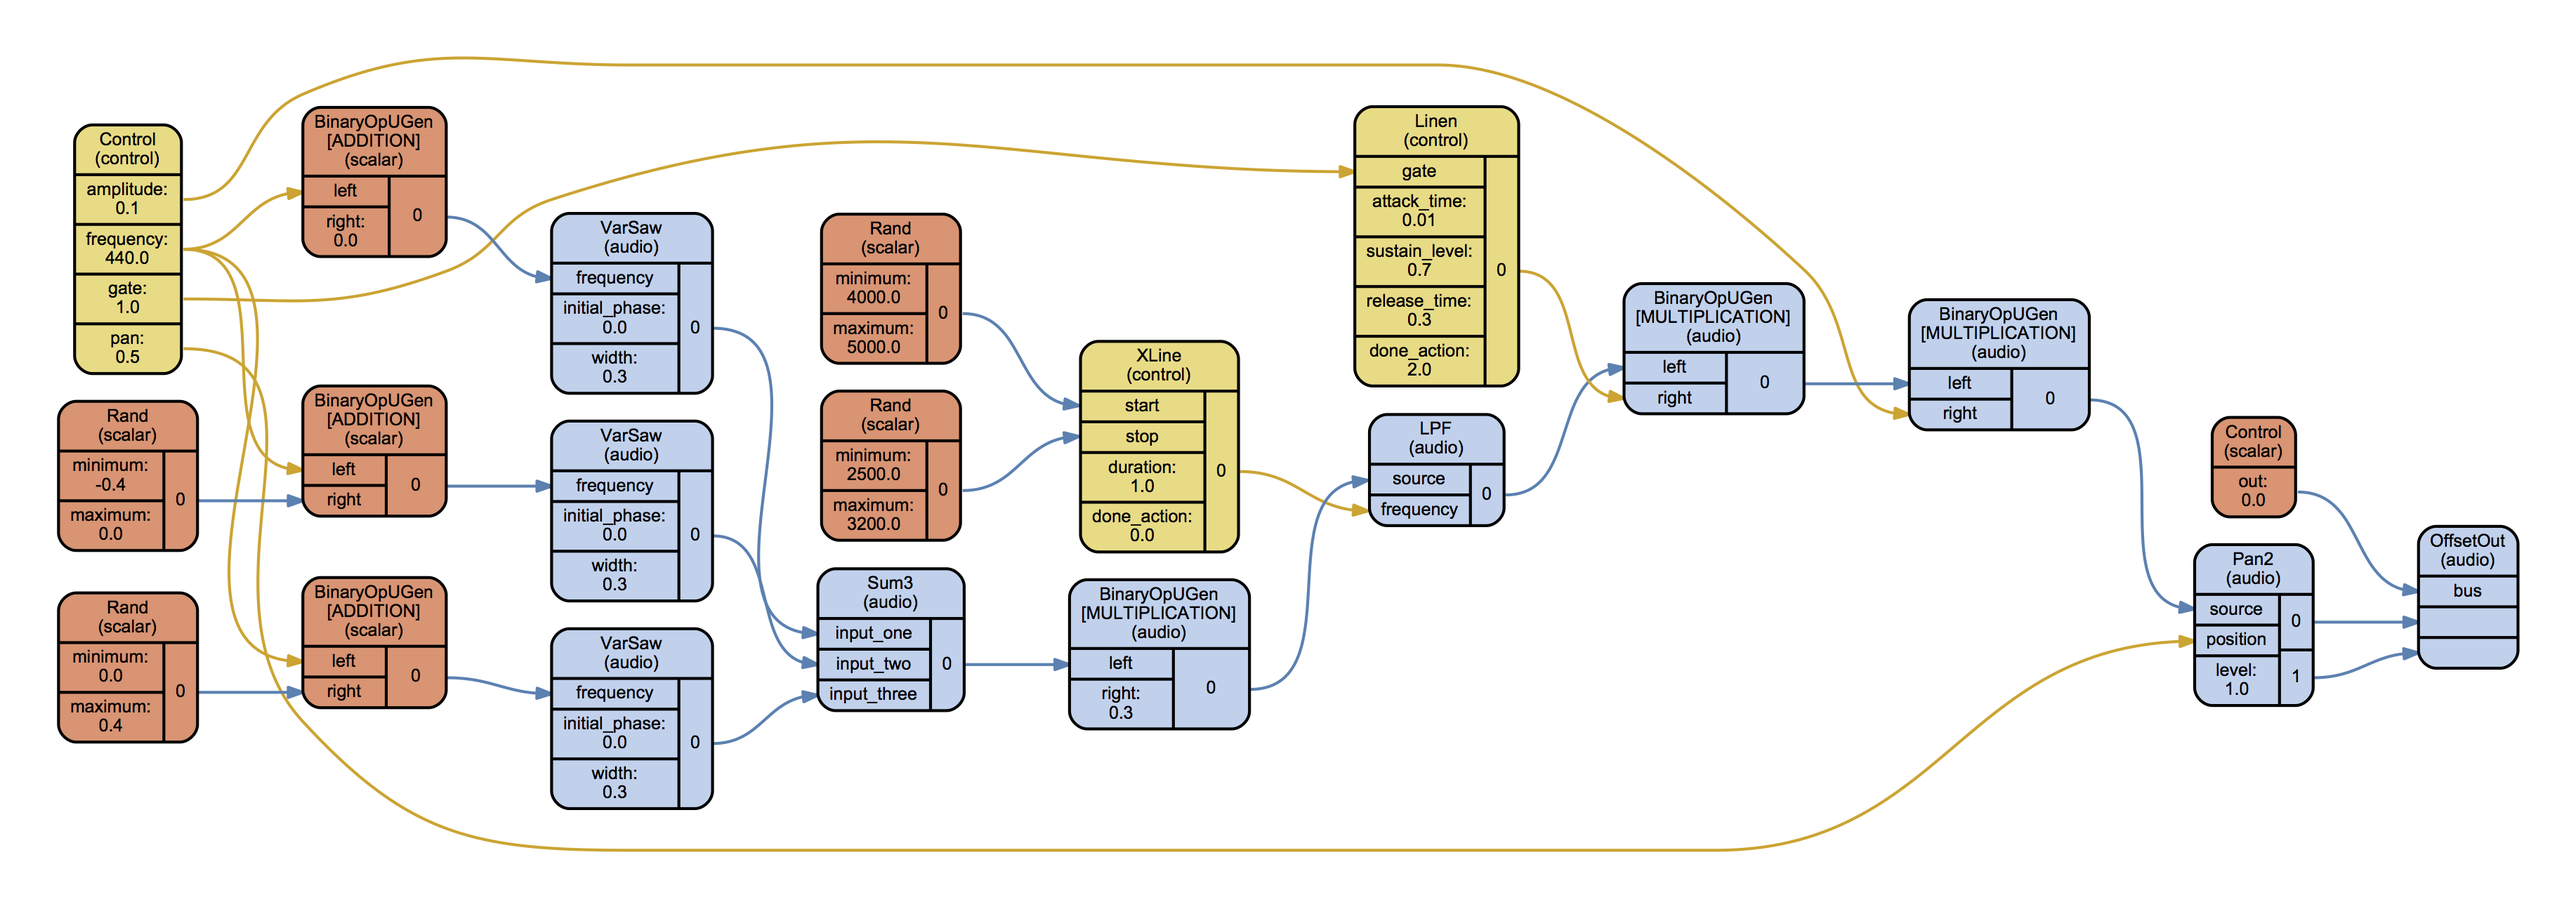
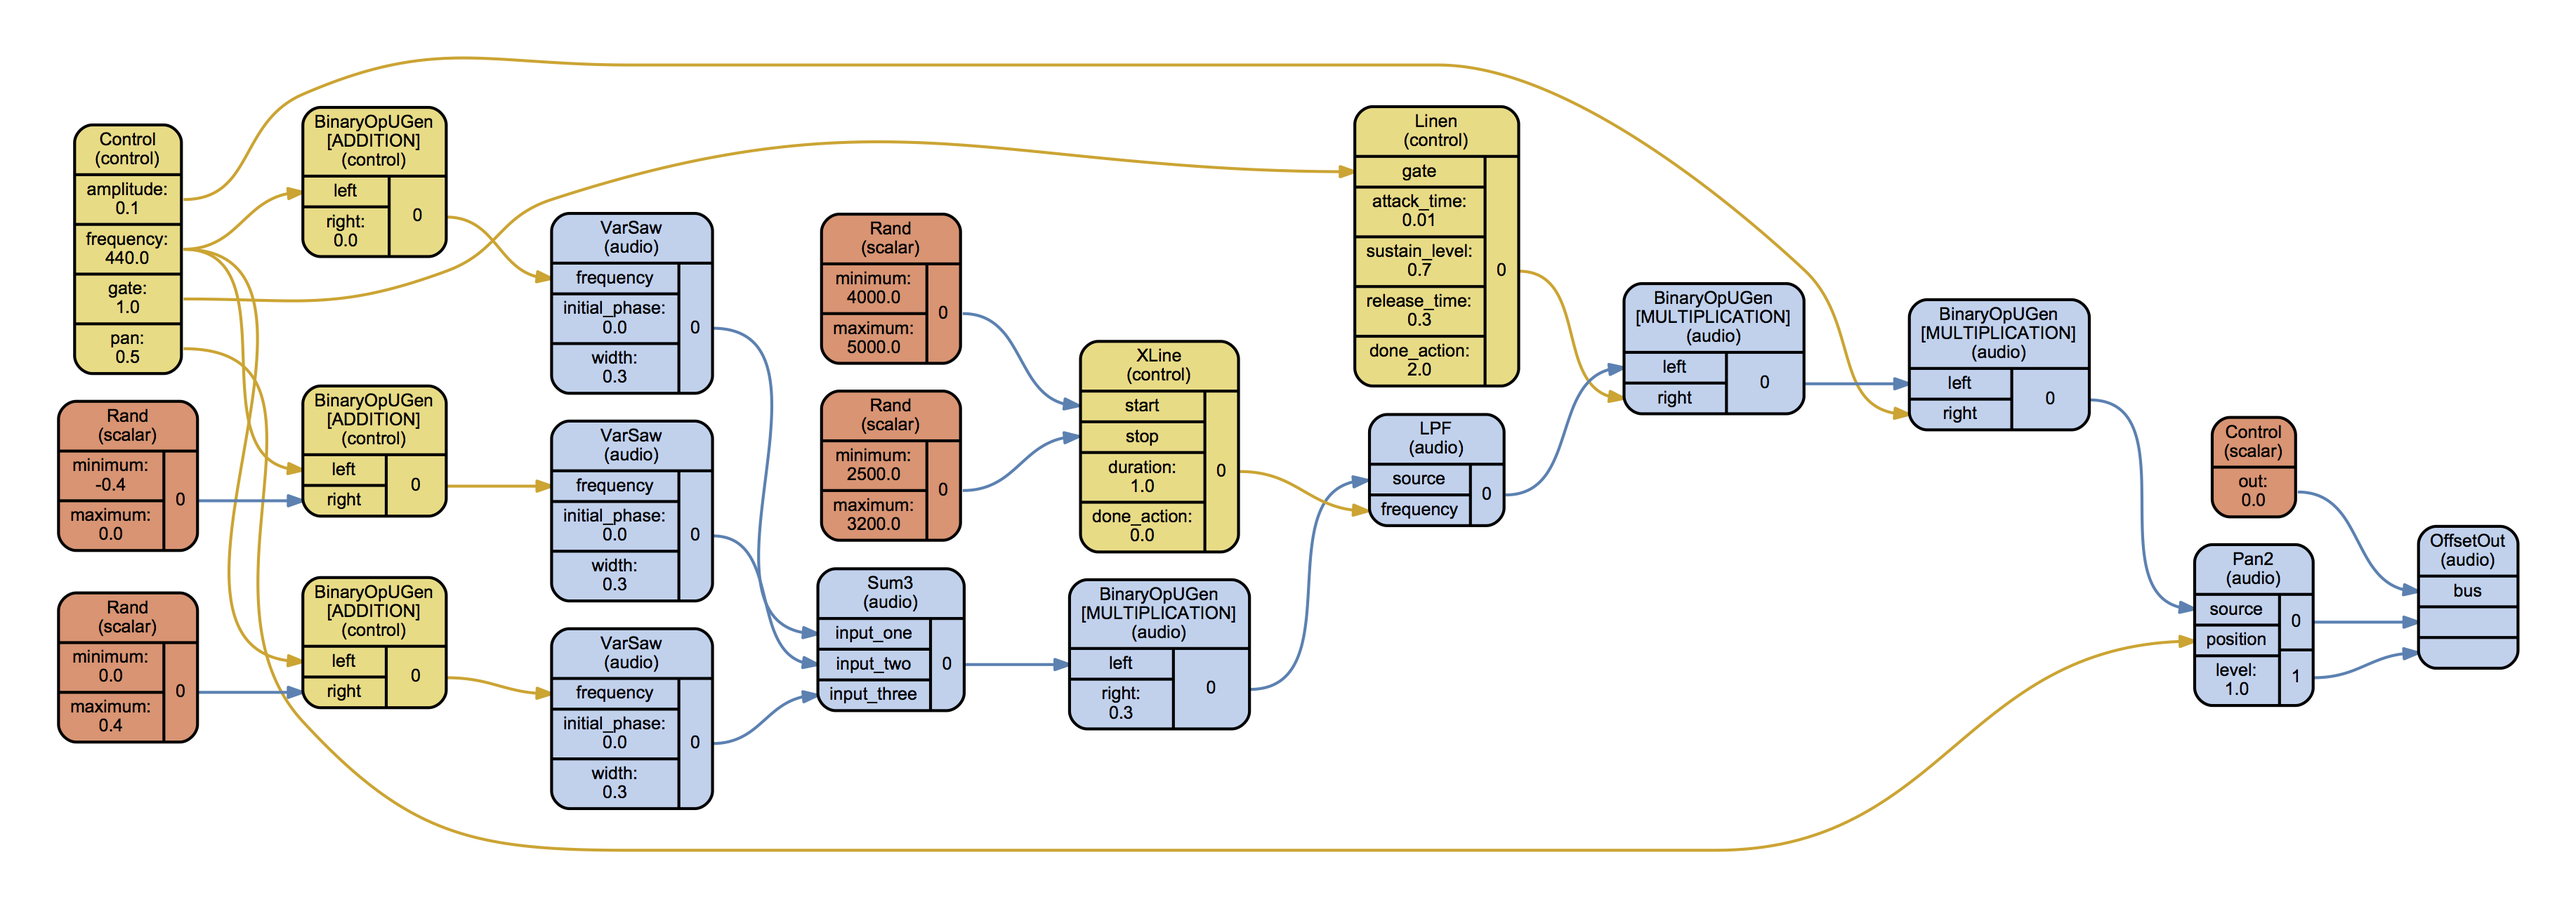
Improved UGen and Parameter rate coercsion.

diff --git a/supriya/tools/synthdeftools/UGenMethodMixin.py b/supriya/tools/synthdeftools/UGenMethodMixin.py
@@ -138,12 +138,21 @@ class UGenMethodMixin(SupriyaObject):
     @staticmethod
     def _compute_binary_rate(ugen_a, ugen_b):
         from supriya import synthdeftools
-        a_rate = synthdeftools.Rate.SCALAR
-        if isinstance(ugen_a, (synthdeftools.OutputProxy, synthdeftools.UGen)):
-            a_rate = ugen_a.rate
-        b_rate = synthdeftools.Rate.SCALAR
-        if isinstance(ugen_b, (synthdeftools.OutputProxy, synthdeftools.UGen)):
-            b_rate = ugen_b.rate
+
+        a_rate = synthdeftools.Rate.from_input(ugen_a)
+        #a_rate = synthdeftools.Rate.SCALAR
+        #if isinstance(ugen_a, (synthdeftools.OutputProxy, synthdeftools.UGen)):
+        #    a_rate = ugen_a.rate
+        #elif isinstance(ugen_a, synthdeftools.Parameter):
+        #    a_rate = synthdeftools.Rate.from_input(ugen_a)
+
+        b_rate = synthdeftools.Rate.from_input(ugen_b)
+        #b_rate = synthdeftools.Rate.SCALAR
+        #if isinstance(ugen_b, (synthdeftools.OutputProxy, synthdeftools.UGen)):
+        #    b_rate = ugen_b.rate
+        #elif isinstance(ugen_b, synthdeftools.Parameter):
+        #    b_rate = synthdeftools.Rate.from_input(ugen_b)
+
         if a_rate == synthdeftools.Rate.DEMAND \
             or a_rate == synthdeftools.Rate.DEMAND:
             return synthdeftools.Rate.DEMAND

diff --git a/supriya/tools/synthdeftools/ParameterRate.py b/supriya/tools/synthdeftools/ParameterRate.py
@@ -12,4 +12,3 @@ class ParameterRate(Enumeration):
     CONTROL = 3
     SCALAR = 0
     TRIGGER = 1
-
